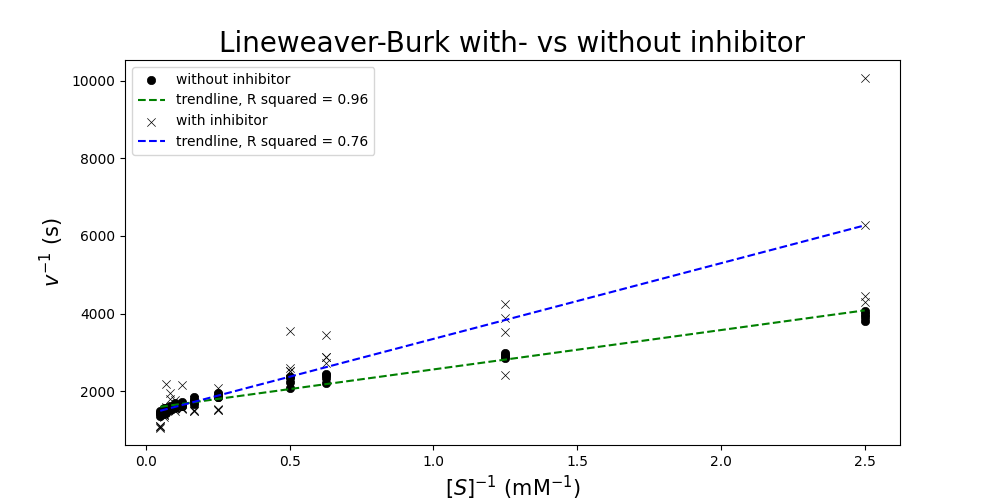
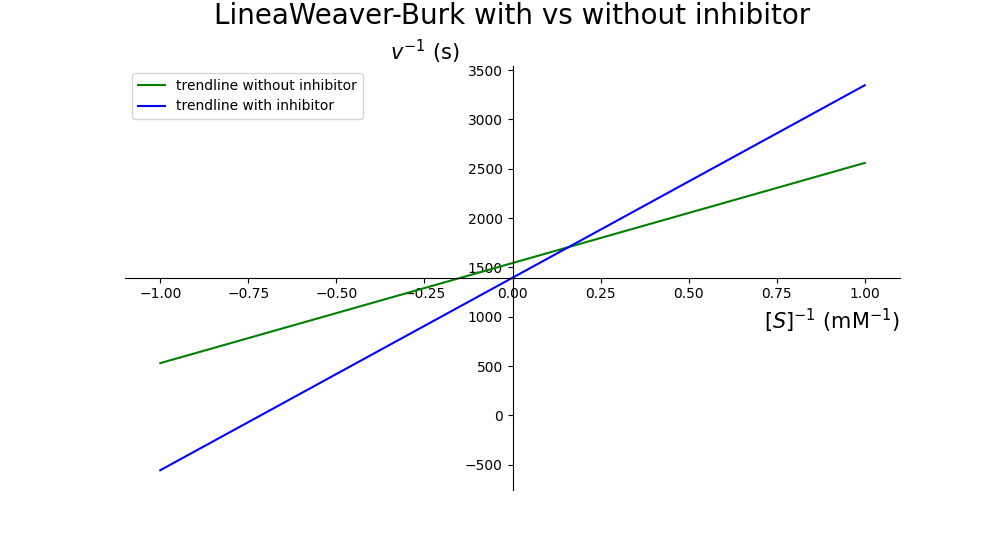
cleaner plot for q3.6

diff --git a/Reports/Enzymatic_activity_onitrophenyl-phosphatase/Data_analyse.py b/Reports/Enzymatic_activity_onitrophenyl-phosphatase/Data_analyse.py
@@ -102,12 +102,12 @@ for i in range(4):
 v2 = A_S.values.reshape((A_S.size))/(1200)
 
 fig, ax = plt.subplots(1, figsize=(10, 5))
-a, b = analyze(1/s2, 1/v2, ax, r'$[S]^{-1}$ (mM$^{-1}$)', r'$v^{-1}$ (s)', 'Lineweaver-Burk without inhibitor', scatterlabel='enzyme incubation wells')
+a22, b22 = analyze(1/s2, 1/v2, ax, r'$[S]^{-1}$ (mM$^{-1}$)', r'$v^{-1}$ (s)', 'Lineweaver-Burk without inhibitor', scatterlabel='enzyme incubation wells')
 plt.legend()
 plt.savefig(os.path.join(dirname, 'figures/fig2_2.png'))
 
-Vmax = 1/a
-Km = b*Vmax
+Vmax = 1/a22
+Km = b22*Vmax
 print(f'q2.2: Vmax = {Vmax:.6f}, Km = {Km:.2f}')
 
 #===============
@@ -175,12 +175,12 @@ for i in range(4):
 v3 = A_S.reshape(A_S.size)/(1200)
 
 fig, ax = plt.subplots(1, figsize=(10, 5))
-a, b = analyze(1/s3, 1/v3, ax, r'$[S]^{-1}$ (mM$^{-1}$)', r'$v^{-1}$ (s)', "LineaWeaver-Burk with inhibitor", scatterlabel='enzyme incubation wells')
+a32, b32 = analyze(1/s3, 1/v3, ax, r'$[S]^{-1}$ (mM$^{-1}$)', r'$v^{-1}$ (s)', "LineaWeaver-Burk with inhibitor", scatterlabel='enzyme incubation wells')
 plt.legend()
 plt.savefig(os.path.join(dirname, 'figures/fig3_2.png'))
 
-Vmax = 1/a
-Km = b*Vmax
+Vmax = 1/a32
+Km = b32*Vmax
 print(f'q3.2: Vmax = {Vmax:.6f}, Km = {Km:.2f}')
 
 #===============
@@ -213,8 +213,20 @@ print(f'q3.4: Vmax = {Vmax:.6f}, Km = {Km:.2f}')
 # Question 3.6
 #===============
 
-fig, ax = plt.subplots(1, figsize=(10, 5))
-a, b = analyze(1/s2, 1/v2, ax, scatterlabel='without inhibitor', tc='green')
-a, b = analyze(1/s3, 1/v3, ax, r'$[S]^{-1}$ (mM$^{-1}$)', r'$v^{-1}$ (s)', 'Lineweaver-Burk with- vs without inhibitor', scatterlabel='with inhibitor', tc='blue', m='x')
+LB2 = lambda x: b22*x+a22 # Lineweaver-Burk trendline from exp. 2
+LB3 = lambda x: b32*x+a32 # Lineweaver-Burk trendline from exp. 3
+x = np.linspace(-1,1,10)
+
+fig, ax = plt.subplots(1, figsize=(10, 5.5))
+
+ax.spines['left'].set_position('center')
+ax.spines['bottom'].set_position('center')
+ax.spines['right'].set_color('none')
+ax.spines['top'].set_color('none')
+ax.plot(x, LB2(x), c='green', label='trendline without inhibitor')
+ax.plot(x, LB3(x), c='blue', label='trendline with inhibitor')
+ax.set_xlabel(r'$[S]^{-1}$ (mM$^{-1}$)', size=15, loc='right') 
+ax.set_ylabel(r'$v^{-1}$ (s)', size=15, loc='top', rotation=0)
+ax.set_title("LineaWeaver-Burk with vs without inhibitor", size=20, pad=30)
 plt.legend()
 plt.savefig(os.path.join(dirname, 'figures/fig3_6.png'))
